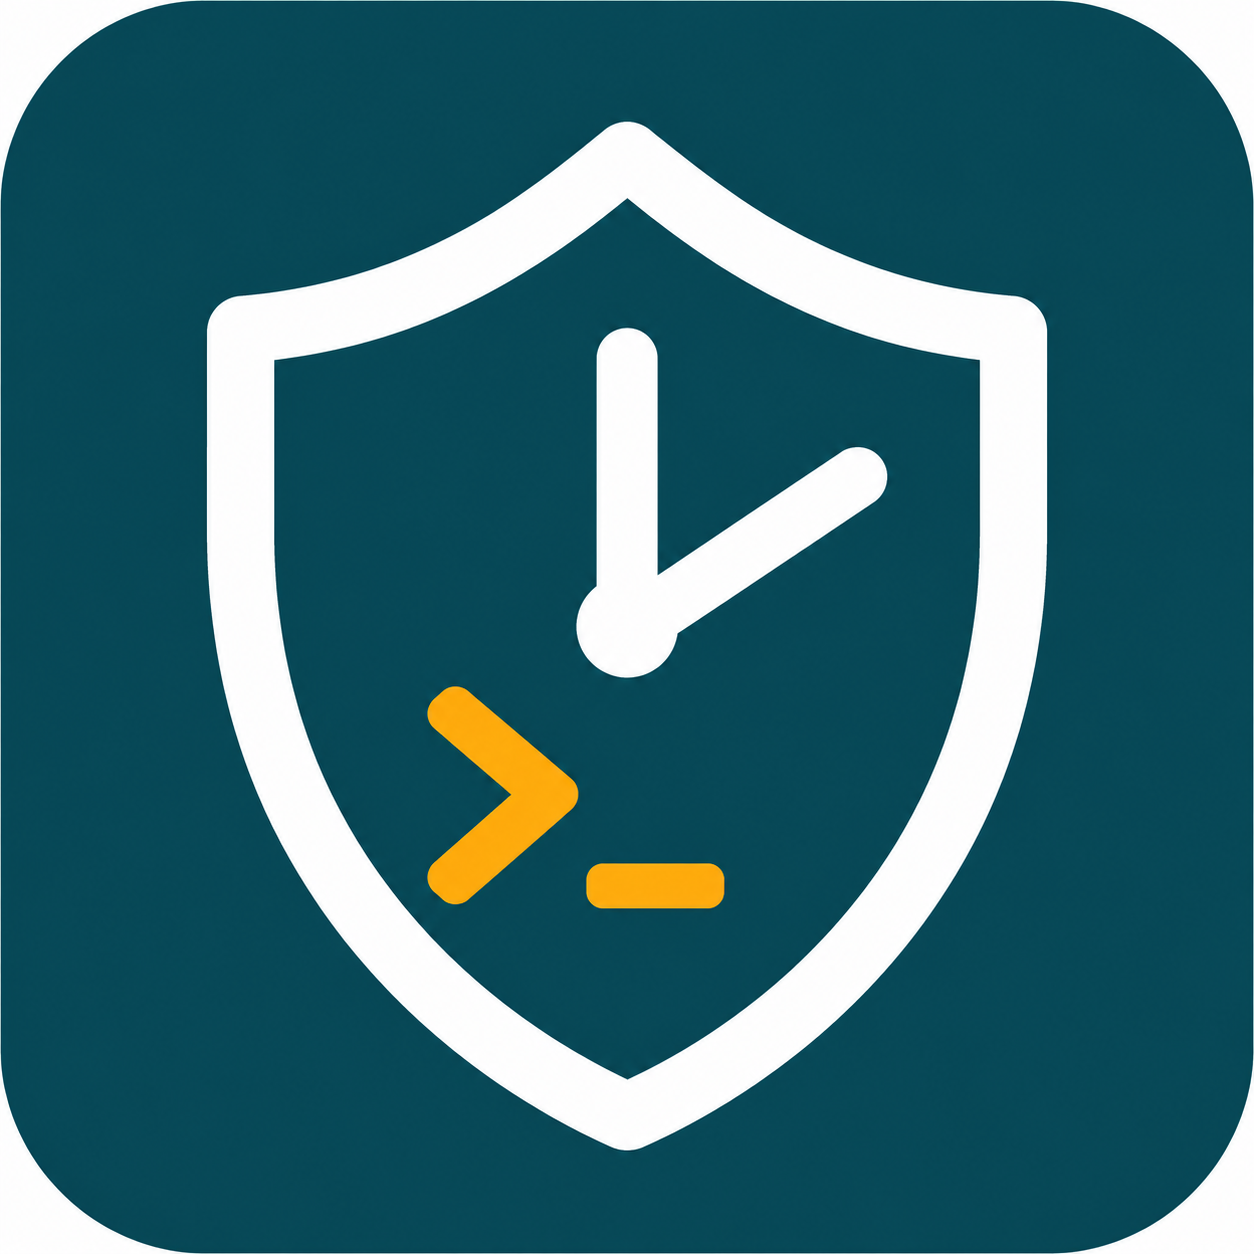
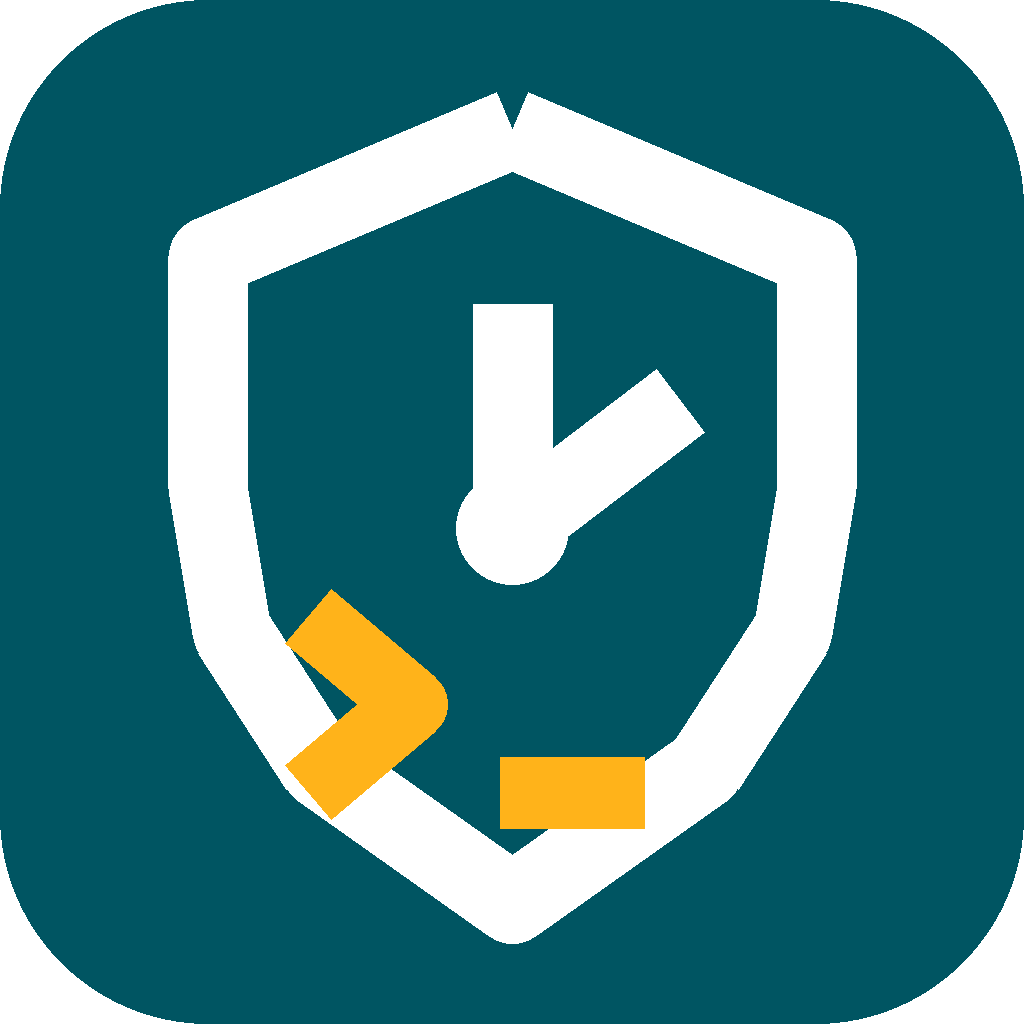
Reorganize source tree and build assets

diff --git a/cmd/pysentry/main.go b/cmd/pysentry/main.go
@@ -1,7 +1,7 @@
 package main
 
-import "github.com/pysentry/pysentry/internal/app"
+import "github.com/pysentry/pysentry/src/gui"
 
 func main() {
-	app.Run()
+	gui.Run()
 }

diff --git a/README.md b/README.md
@@ -40,7 +40,7 @@ sudo apt install golang gcc libgl1-mesa-dev xorg-dev
 Windows:
 
 ```powershell
-.\scripts\build-windows.ps1
+.\scripts\build-windows.bat
 ```
 
 The binary is written to:
@@ -64,8 +64,9 @@ dist/linux/pysentry
 
 Linux using Docker:
 
-```powershell
-.\scripts\build-linux-docker.ps1
+```bash
+chmod +x ./scripts/build-linux-docker.sh
+./scripts/build-linux-docker.sh
 ```
 
 The binary is copied to:
@@ -157,10 +158,12 @@ Changing `jobs_dir` saves the current job list to the new directory.
 ## Project Layout
 
 - `cmd/pysentry` starts the desktop app.
-- `internal/app` contains the GUI.
-- `internal/core` contains YAML storage, command execution, scheduling, and log cleanup.
+- `src/gui` contains the GUI.
+- `src/core` contains YAML storage, command execution, scheduling, and log cleanup.
 - `assets` contains app icons.
 - `scripts` contains build helpers.
+
+Build outputs are written to `dist/`. The old local `bin/` directory is not used.
 
 ## Dependencies
 